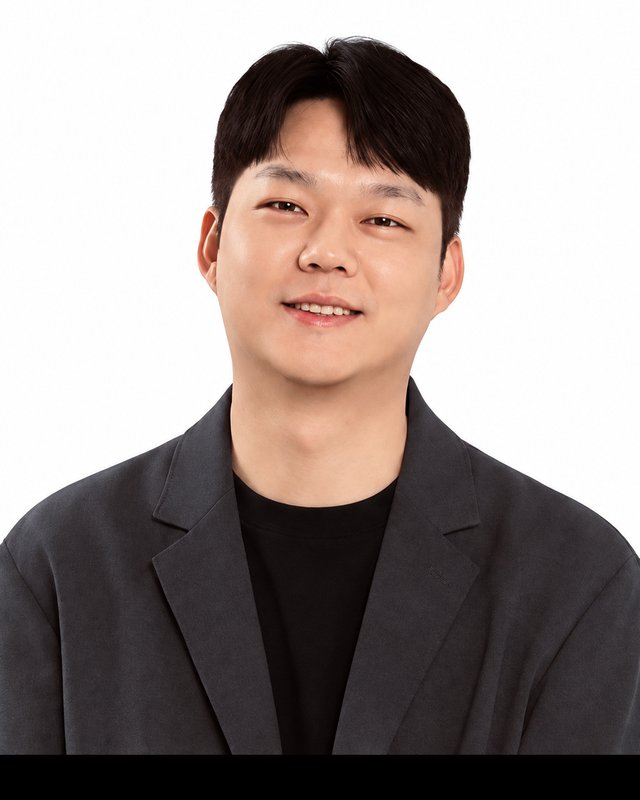
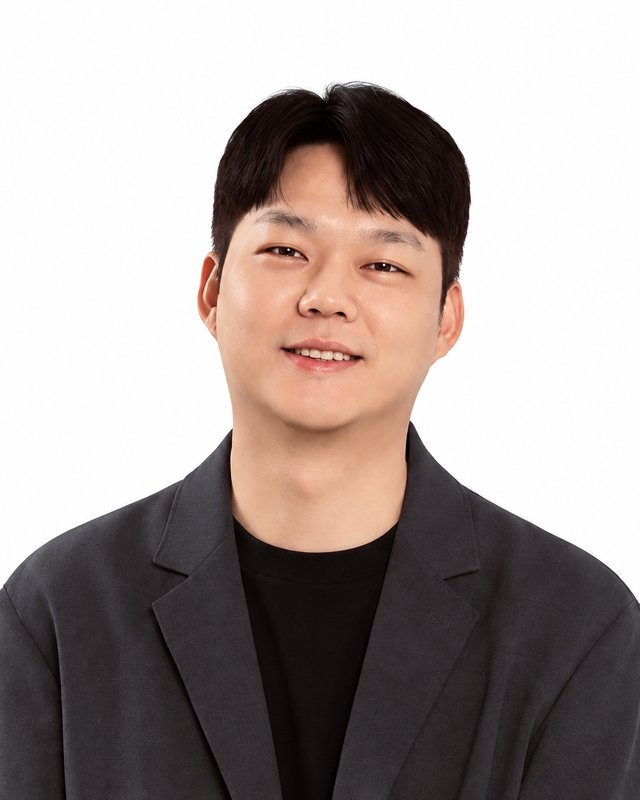
Prof. Lee page: smaller photo with fixed aspect, add Young Joo Lee, update bio
Claude-Session: https://claude.ai/code/session_01YC4m1khvW5rXasouvJcVdj

Changed region(s): [[0.0, 0.0312, 1.0, 1.0]]

diff --git a/data.js b/data.js
@@ -141,11 +141,11 @@ window.PATENTS = [
 
 /* ---------- 교수 소개 ---------- */
 window.PI = {
-  name: "Youngjoo Lee, Ph.D.",
+  name: "Youngjoo Lee (Young Joo Lee), Ph.D.",
   nameKo: "이영주 교수",
   title: "Assistant Professor",
   photo: "profile.jpg",
-  bio: "Youngjoo Lee is an Assistant Professor in the Department of Organic Materials and Fiber Engineering at Jeonbuk National University. He received his Ph.D. in Chemical and Biomolecular Engineering from the Georgia Institute of Technology under Prof. Ryan P. Lively, where he developed machine-learning frameworks that predict complex mixture permeation in polymer membranes. He then worked as a postdoctoral associate with Prof. Chinedum Osuji at the University of Pennsylvania on ion-selective transport through self-assembled membranes with sub-nanometer pores.",
+  bio: "Youngjoo Lee is an Assistant Professor in the Department of Organic Materials and Fiber Engineering at Jeonbuk National University. He received his Ph.D. in Chemical and Biomolecular Engineering from the Georgia Institute of Technology under Prof. Ryan P. Lively, where he developed an integrated transport framework that predicts complex mixture permeation in polymer membranes from chemical structures alone, with no experimental input required. He then worked as a postdoctoral associate with Prof. Chinedum Osuji at the University of Pennsylvania on ion-selective transport through self-assembled membranes with sub-nanometer pores.",
   education: [
     ["2024–2026", "Postdoctoral Associate, Chemical and Biomolecular Engineering, University of Pennsylvania (Advisor: Prof. Chinedum Osuji)"],
     ["2024", "Ph.D., Chemical and Biomolecular Engineering, Georgia Institute of Technology (Advisor: Prof. Ryan P. Lively)"],

diff --git a/style.css b/style.css
@@ -110,9 +110,9 @@ img { max-width: 100%; display: block; }
 .split { display: grid; grid-template-columns: 1.15fr .85fr; gap: 48px; align-items: start; }
 @media (max-width: 860px) { .split { grid-template-columns: 1fr; gap: 28px; } }
 
-.pi-card { display: grid; grid-template-columns: 220px 1fr; gap: 28px; align-items: start; }
-.pi-card img { border-radius: var(--radius); aspect-ratio: 4/5; object-fit: cover; width: 100%; background: var(--primary-soft); }
-@media (max-width: 640px) { .pi-card { grid-template-columns: 1fr; } .pi-card img { max-width: 240px; } }
+.pi-card { display: grid; grid-template-columns: 200px 1fr; gap: 32px; align-items: start; }
+.pi-card img { border-radius: var(--radius); aspect-ratio: 4/5; object-fit: cover; width: 100%; height: auto; background: var(--primary-soft); }
+@media (max-width: 640px) { .pi-card { grid-template-columns: 1fr; } .pi-card img { max-width: 200px; } }
 .pi-meta { display: grid; gap: 10px; }
 .pi-meta .role { color: var(--muted); }
 
